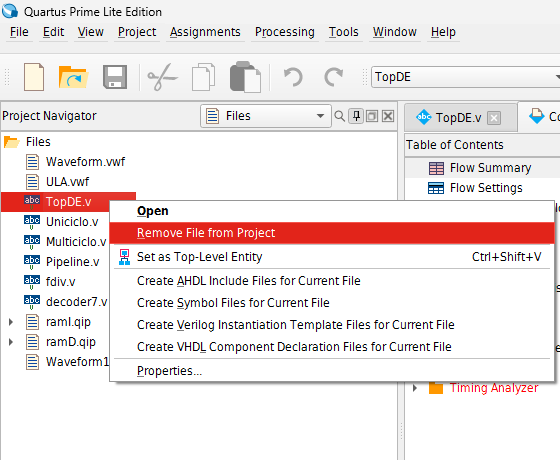
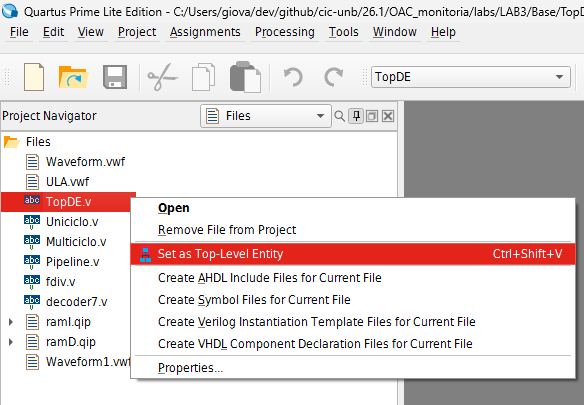
OAC - tutorial

diff --git a/26.1/OAC_monitoria/dicas/Altera-Quartus/altera-quartus.md b/26.1/OAC_monitoria/dicas/Altera-Quartus/altera-quartus.md
@@ -114,7 +114,7 @@ Exemplo de erro na simulação por variável não definida (`SALT_LICENSE_SERVER
 
     ![set_as_top-level_entity](set_as_top-level_entity.png)
 
-1. Analise recursos físicos \
+1. Analise os recursos físicos \
     Anote os valores mostrados no Flow Summary depois da compilação:
     - Total de ALMs 
     - Total de registradores
@@ -123,28 +123,32 @@ Exemplo de erro na simulação por variável não definida (`SALT_LICENSE_SERVER
 
     ![requisitos_fisicos](requisitos_fisicos.png)
 
-1. Analise recursos temporais
+1. Analise os recursos temporais
 
     1. Tools > Timing Analyzer \
         ![tools_timing_analyzer](tools_timing_analyzer.png)
 
-    1. Na janela aberta, na seção "Tasks" à esquerda, clique duas vezes nas opções "Create Timing Netlist" \
+    1. Na janela aberta, na seção "Tasks" à esquerda, clique duas vezes nas opções "Create Timing Netlist", depois em "Report FMax Summary" \
+        Anote a **frequência máxima** para o design. Arredonde esse valor para baixo e use-o pra calcular o **perído mínimo de clock** que o design aguenta.
+
         ![create_netlist_fmax.png](create_netlist_fmax.png)
     
-    1. Crie um clock. Vá em Constraints > Create Clock
-        Certifique-se de que não há outro clock já definido. \
+    1. Caso, seu projeto seja síncrono (utilize clock) crie um clock. Vá em Constraints > Create Clock \
+        1. Dê um nome para o clock
+        1. Insira o período mínimo de clock calculado anteriormente
         Se estiver usando o processador RISC-V pronto, ele já tem clocks definidos, não precisa criar outro. <!-- TODO: checar se é isso mesmo -->
-    
-    1. De volta na seção "Tasks", clique duas vezes em "Report FMax Summary" \
-
-        Anote a **frequência máxima** para o design. Arredonde esse valor para baixo e use-o pra calcular o **perído mínimo de clock** que o design aguenta.
 
     1. Clique duas vezes na opção "Report Datasheet"
 
-        Na seção "Report" também à esquerda, visualize as tabelas de Setup Times (**tsu**), Hold Times (**th**) e Clock to Output Times (**tco**). \
-        Visualize também a tabela de Propagation delay.
+        Na seção "Report" também à esquerda, visualize as tabelas e anote:
+        - Setup Times (**tsu**) anote o menor valor 
+        - Hold Times (**th**)
+        - Clock to Output Times (**tco**). \
+        - Propagation delay.
 
         A tabela de tsu **deve** ter valores negativos, enquanto as tabelas de th, tco e tpd devem ter valores positivos. Se não seguir essa regra, quer dizer que o período de clock definido é curto demais e a execução terá hazards.
+    
+
 
 
 ## Simulação - Quartus